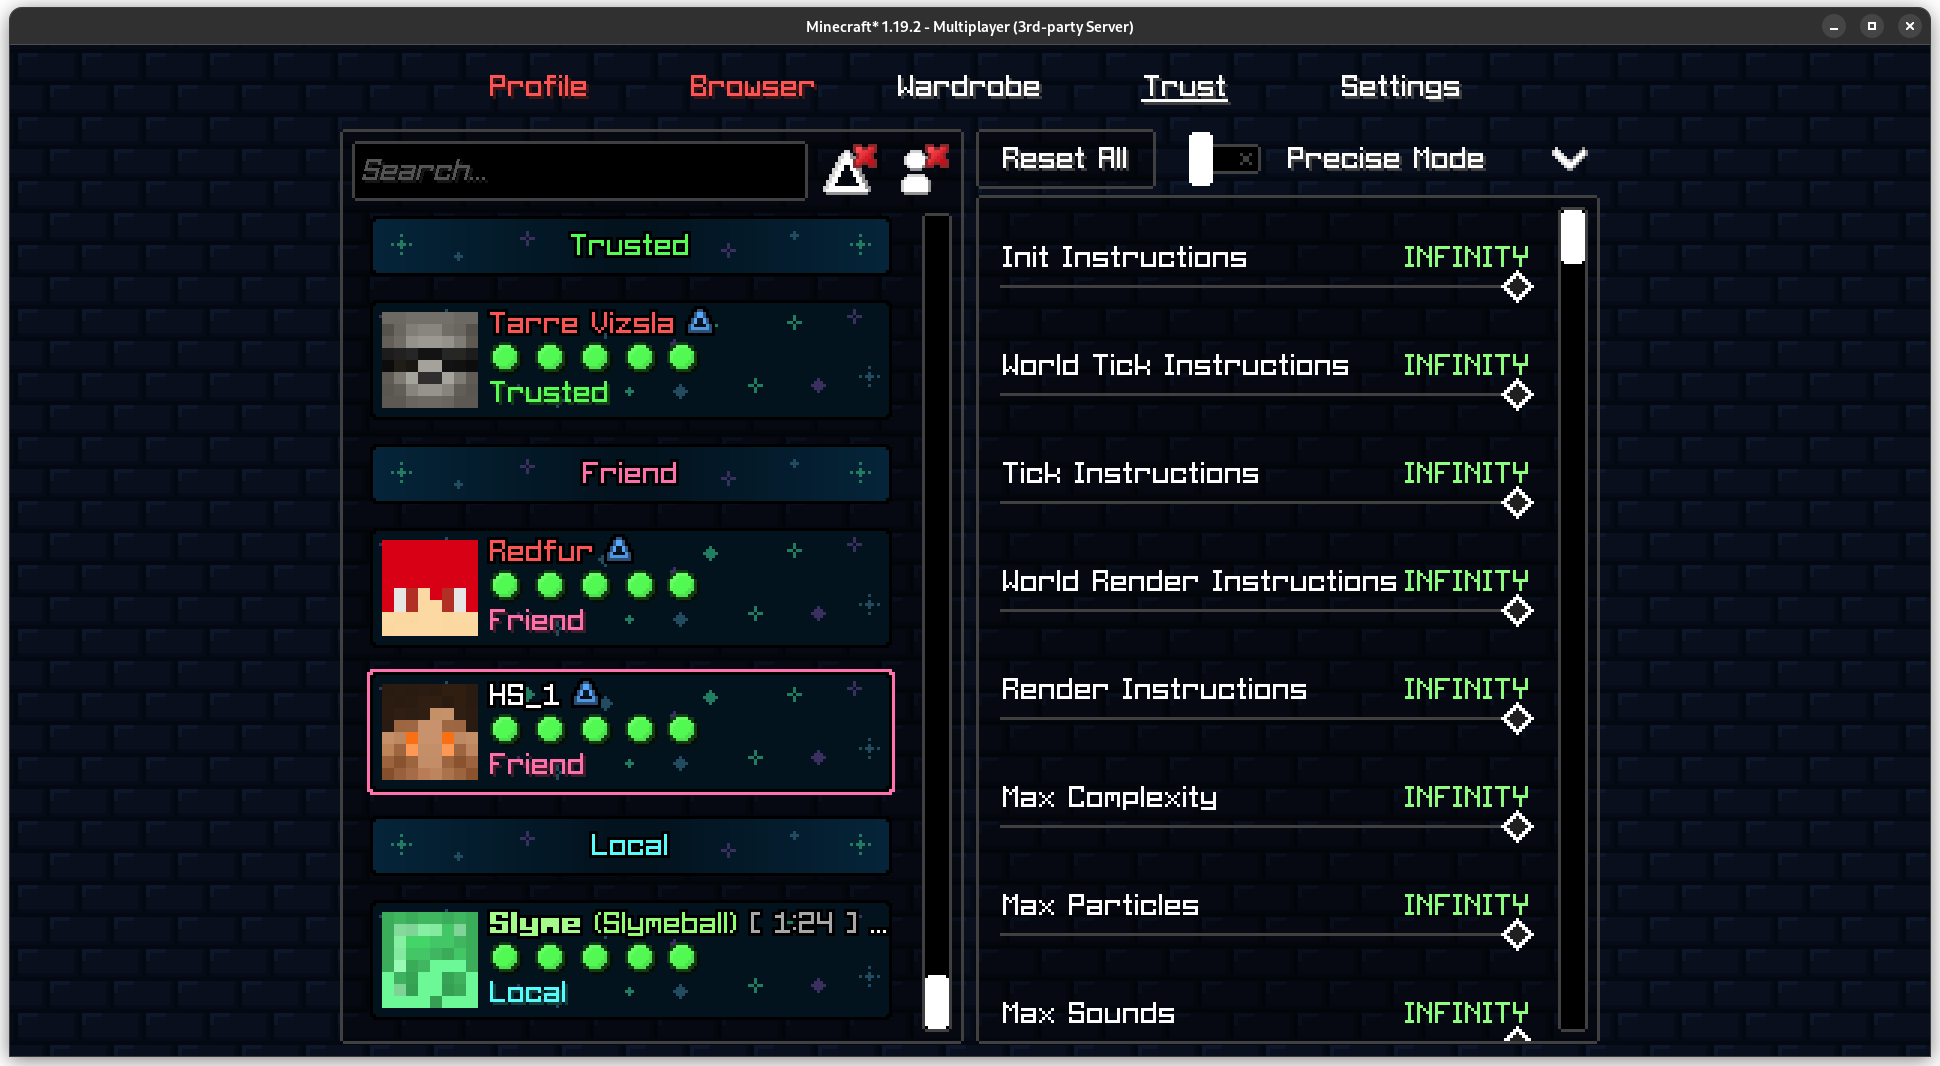
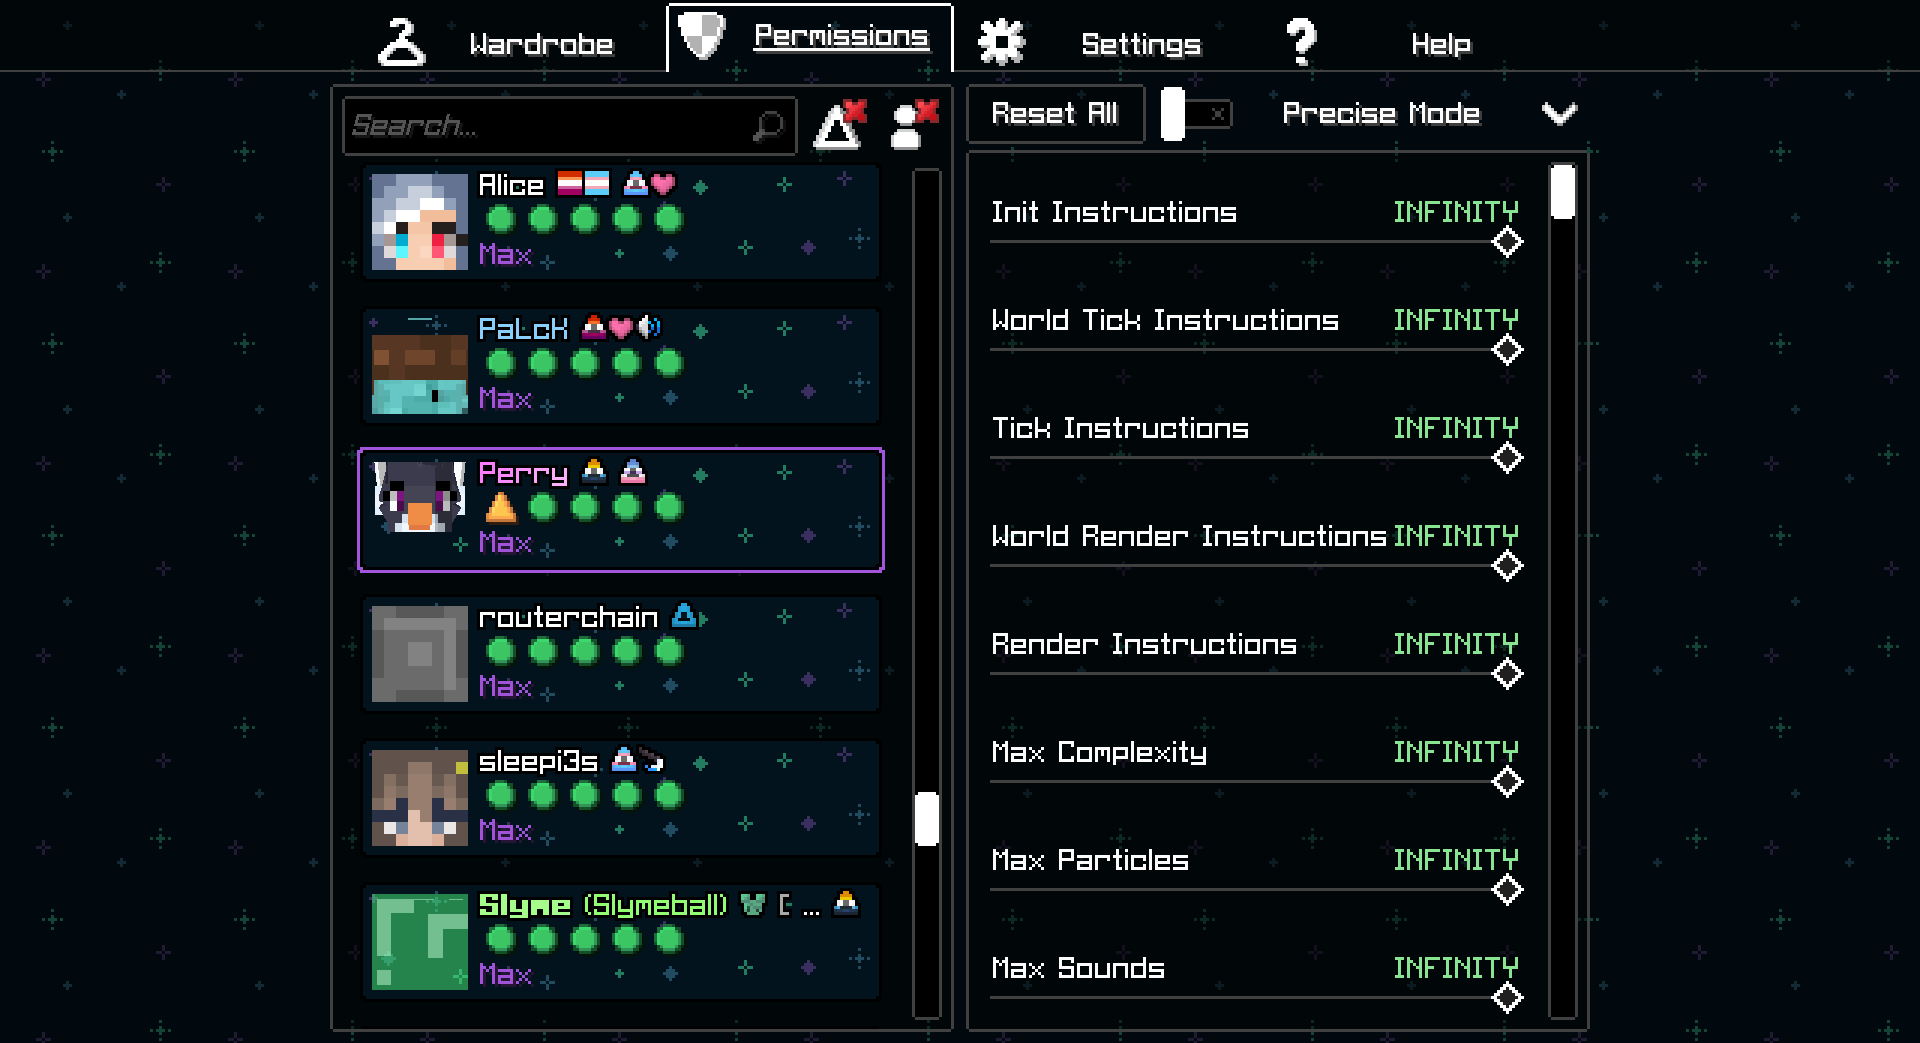
Update Trust

diff --git a/docs/panel/trust.md b/docs/panel/trust.md
@@ -1,11 +1,11 @@
 ---
 layout: default
-title: Trust Menu
+title: Permission Menu
 parent: The Figura Panel
 nav_order: 2
 ---
 
-# Trust Menu
+# Permission Menu
 {: .no_toc }
 
 ## Table of contents
@@ -18,7 +18,7 @@ nav_order: 2
 
 # Quick Access
 
-The trust menu is where the limits on each avatar is set.
+The permission menu is where the limits on each avatar is set.
 
 ![](https://github.com/Slymeball/figura-wiki/blob/main/images/figura/panel/trust.png?raw=true)
 
@@ -29,13 +29,13 @@ Filters the player list below.
 - ![](https://github.com/Slymeball/figura-wiki/blob/main/images/figura/icons/hide_offline.png?raw=true) Show/Hide Offline Players
 
 ## Orange - Player List
-From this, you can pick any player online (or offline) and move them up or down the trust list.
+From this, you can pick any player online (or offline) and move them up or down the permission list.
 
 ## Yellow - Avatar Preview
 Shows the currently selected player's avatar or a question mark if an offline player or group is selected. Middle clicking resets the pan and rotation of the preview.
 
-## Green - Trust Slider
-Selects the trust level for the selected player. In later versions of 0.1.0, you can also move players by holding a click on their left-side card.
+## Green - Permission Slider
+Selects the permission level for the selected player. In later versions of 0.1.0, you can also move players by holding a click on their left-side card.
 
 ## Teal - Reload All Avatars
 Clears the cache of all avatars and gets all avatars from the backend again.
@@ -43,8 +43,8 @@ Clears the cache of all avatars and gets all avatars from the backend again.
 ## Blue - Manage Permissions
 Allows the player to edit the specific limits on each player or group. See below for more information.
 
-## Unpictured - Context Menu
-Allows you to copy the name or UUID of a player, refresh, or change their trust. Right click a card to access.
+## Purple - Context Menu
+Allows you to copy the name or UUID of a player, reload their avatar, or change their permission level. Right click a player's card to access.
 
 # Permission Menu
 
